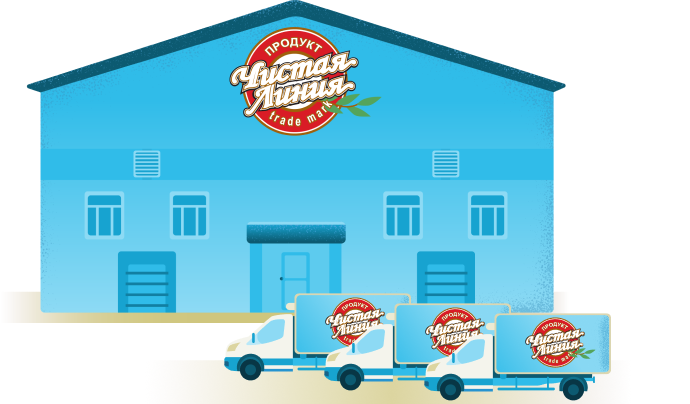
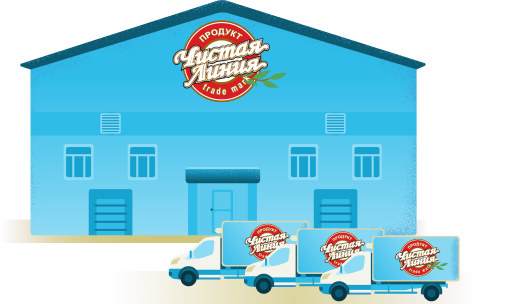
add factory page top

diff --git a/src/assets/styles/pages/_factory.scss b/src/assets/styles/pages/_factory.scss
@@ -1,11 +1,173 @@
 .factory {
 
 
+  // MAIN
+
+  &__main {
+    // overflow: hidden;
+  }
+
+
   // TOP
 
   &__top {
-    min-height: 100vh; // test
+    position: relative;
+    z-index: 0;
     background: linear-gradient(90.09deg, #FCF9E8 0.74%, #F4F0CD 32.76%, #F8F6E9 99.88%);
+    overflow: hidden;
+  }
+
+  &__top-content {
+    margin-top: 60px;
+    padding-bottom: 130px;
+
+    @media (min-width: $screen-md-min) {
+      padding-bottom: 180px;
+      display: flex;
+      justify-content: space-between;
+      align-items: flex-start;
+    }
+
+    @media (min-width: $screen-lg-min) {
+      padding-bottom: 220px;
+    }
+
+    @media (min-width: $screen-xl-min) {
+      margin-top: 80px;
+      padding-bottom: 290px;
+    }
+
+    @media (min-width: $screen-xl-min) {
+      padding-bottom: 320px;
+    }
+  }
+
+  &__top-info {
+    position: relative;
+    z-index: 2;
+
+    @media (min-width: $screen-md-min) {
+      width: calc((100% - 40px) / 2);
+    }
+
+    @media (min-width: 1680px) {
+      width: calc((100% - 80px) / 2);
+    }
+  }
+
+  &__top-info-title {
+    margin: 0;
+    font-weight: bold;
+    font-size: 18px;
+    line-height: 140%;
+
+    @media (min-width: $screen-xl-min) {
+      font-size: 30px;
+      line-height: 130%;
+    }
+  }
+
+  &__top-info-text {
+    margin: 0;
+    margin-top: 20px;
+    font-size: 14px;
+    line-height: 140%;
+
+    @media (min-width: $screen-md-min) {
+      max-width: 335px;
+    }
+
+    @media (min-width: $screen-xl-min) {
+      margin-top: 40px;
+      max-width: 492px;
+      font-size: 18px;
+    }
+  }
+
+  &__top-composition {
+    position: relative;
+    z-index: 1;
+    margin-top: 40px;
+    display: flex;
+    justify-content: center;
+
+    @media (min-width: $screen-md-min) {
+      margin-top: 0;
+      width: calc((100% - 40px) / 2);
+    }
+
+    @media (min-width: 1680px) {
+      width: calc((100% - 80px) / 2);
+    }
+  }
+
+  &__top-composition-image {
+    position: relative;
+    display: flex;
+  }
+
+  &__top-composition-img {
+    position: relative;
+    z-index: 3;
+    display: block;
+    max-width: 100%;
+    max-height: 100%;
+
+    @mixin decoration {
+      position: absolute;
+      left: 50%;
+      transform: translateX(-50%);
+      max-width: none;
+      max-height: none;
+    }
+
+    &--ground {
+      @include decoration();
+      z-index: 2;
+      top: calc(100% - 90px)
+    }
+
+    &--cloud {
+      @include decoration();
+      z-index: 1;
+      top: -20px;
+      width: 100%;
+
+      @media (min-width: $screen-xl-min) {
+        width: 200%;
+      }
+    }
+  }
+
+  &__top-transition {
+    position: absolute;
+    z-index: 100000;
+    bottom: 0;
+    left: 50%;
+    transform: translateX(-50%);
+    display: block;
+    width: 768px;
+    max-width: none;
+
+    @media (min-width: $screen-md-min) {
+      width: $screen-lg-min;
+    }
+
+    @media (min-width: $screen-lg-min) {
+      width: $screen-xl-min;
+    }
+
+    @media (min-width: $screen-xl-min) {
+      width: 1680px;
+    }
+
+    @media (min-width: 1680px) {
+      width: 1920px;
+    }
+
+    @media (min-width: 1920px) {
+      width: 2200px;
+    }
   }
 
 
@@ -23,7 +185,7 @@
     }
   }
 
-  &__top-mid-slider {
+  &__top-mid-title {
     margin: 0;
     font-weight: bold;
     font-size: 22px;
